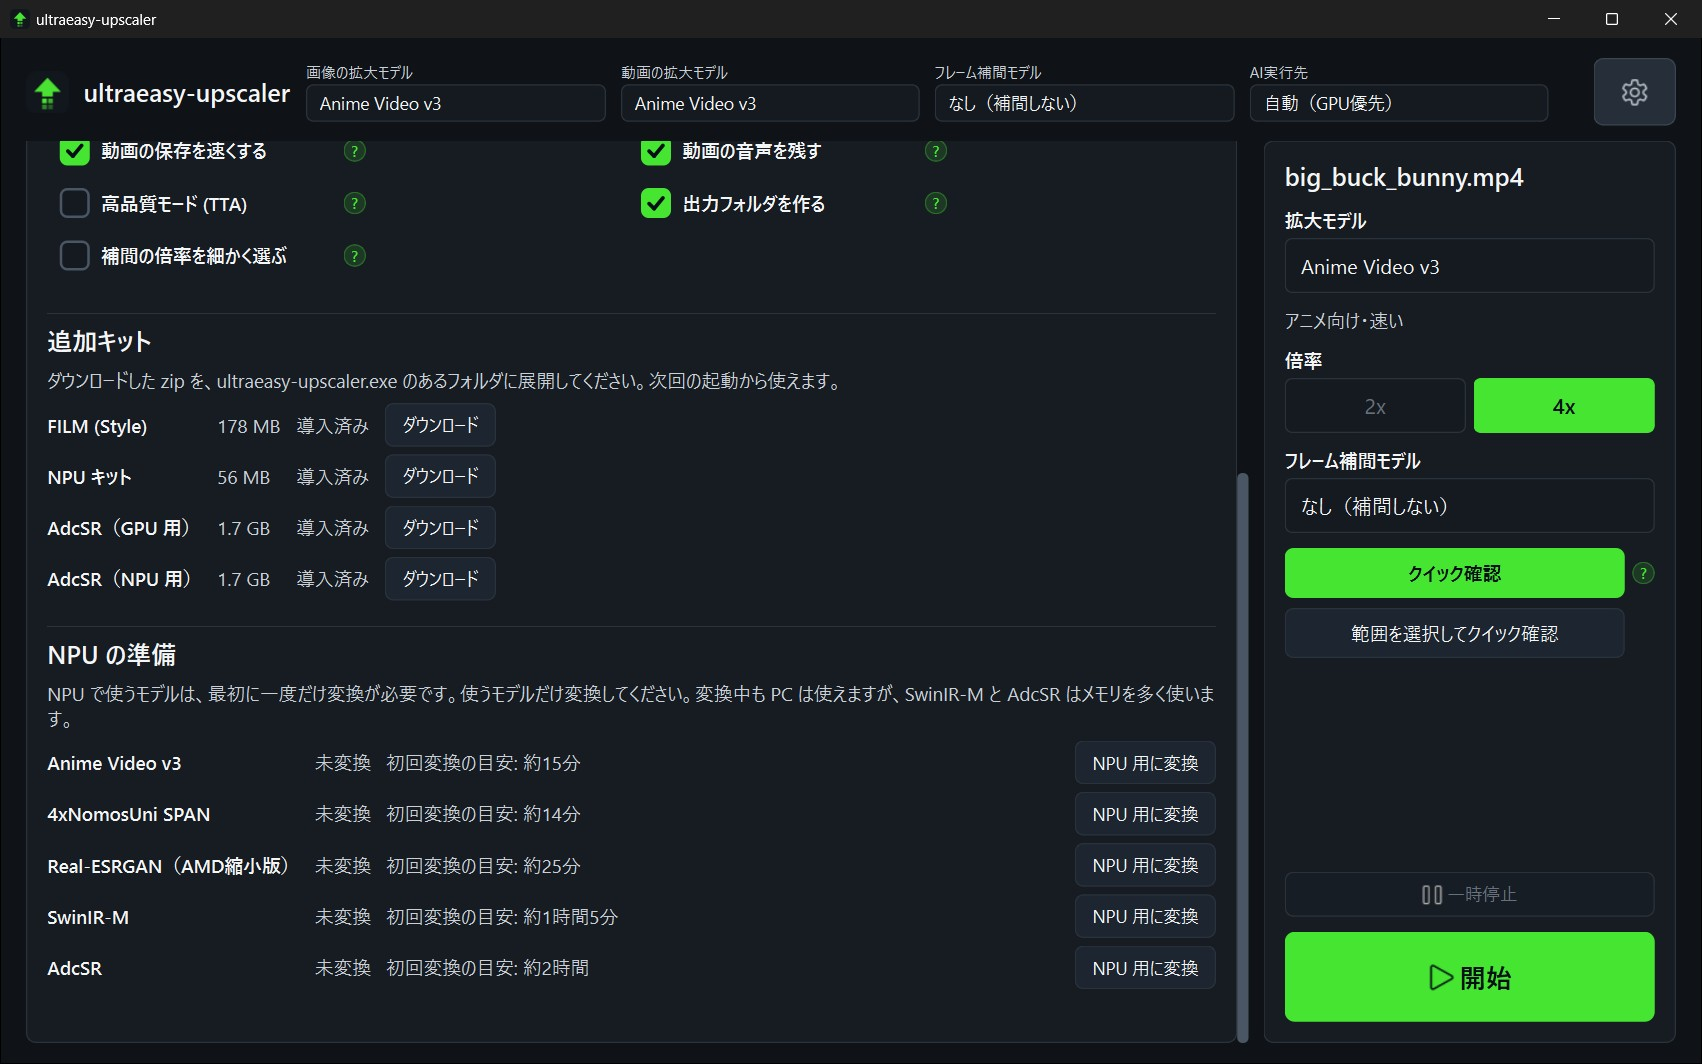
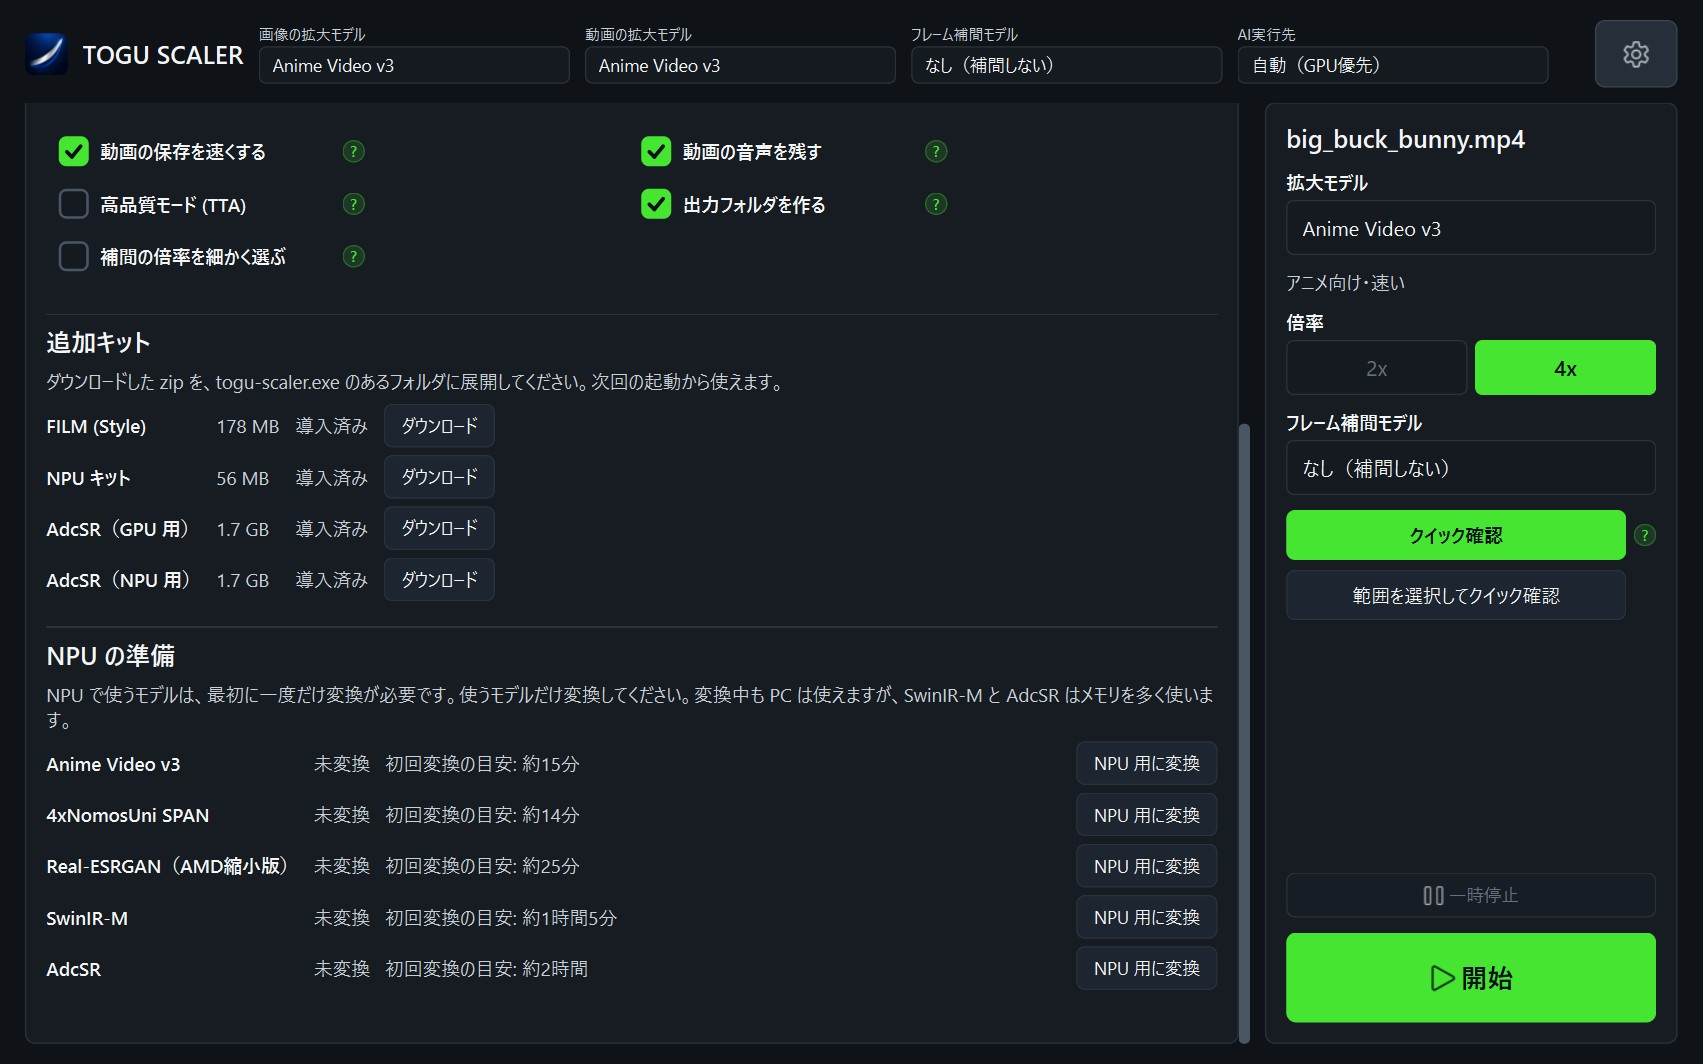
docs: v0.12.0 の説明と画面写真に更新する
- 画面写真を新しい名前とアイコンで撮り直す
- AI実行先・アクセントカラー・未導入の表示の説明を足す
- 詳細設定のアクセントカラーを表示言語の右に並べ、2 倍のボタンの説明を直す

diff --git a/README.en.md b/README.en.md
@@ -2,8 +2,9 @@
 
 [日本語](README.md) [![agent-friendly](docs/images/agent-friendly.svg)](AGENTS.md)
 
-**[⬇ Download TOGU SCALER v0.11.0](https://github.com/tomhda/togu-scaler/releases/download/v0.11.0/togu-scaler-portable-win64.zip)**
+**[⬇ Download TOGU SCALER v0.12.0](https://github.com/tomhda/togu-scaler/releases/download/v0.12.0/togu-scaler-portable-win64.zip)**
 (zip for Windows x64, 382 MB). See [Install](#install) for the steps.
+Up to v0.11.0, the app was named ultraeasy-upscaler.
 
 TOGU SCALER is a Windows app that upscales images and videos, and interpolates video frames, with a few clicks.
 Everything runs on your own PC. It collects no data, shows no ads, and is open source.
@@ -50,7 +51,7 @@ and Superman (1941), which is in the public domain.
 
 Tested on Windows 11 (x64) with a DirectX 12 GPU.
 
-1. Download [`togu-scaler-portable-win64.zip`](https://github.com/tomhda/togu-scaler/releases/download/v0.11.0/togu-scaler-portable-win64.zip).
+1. Download [`togu-scaler-portable-win64.zip`](https://github.com/tomhda/togu-scaler/releases/download/v0.12.0/togu-scaler-portable-win64.zip).
 2. Extract the zip anywhere you like. It is a portable app and needs no installation.
 3. Run `togu-scaler.exe`. The file is not code-signed, so Windows SmartScreen may show "Windows protected your PC". Select **More info**, then **Run anyway**.
 
@@ -101,6 +102,7 @@ To uninstall, delete the extracted folder.
 
 - The gear at the top right opens settings for where the AI runs, the file format, video quality, the output location, the output folder name, the display language, and more. It also shows which add-on kits are installed.
 - The interface is available in English and Japanese. It starts in the Windows display language, and you can change it under **Display language** (the change takes effect the next time the app starts).
+- **Accent color** changes the color used for highlights. It starts with the Windows accent color.
 
 ## Choosing a model
 
@@ -115,7 +117,8 @@ Times are for enlarging one 854×480 image 4× on a Radeon 860M (the integrated 
 | AdcSR | Live-action stills | 108 s | A generative model that adds texture. It is very heavy and adds a lot, so it is for still images only. Not included in the app; it needs an [add-on kit](#add-on-kits) |
 
 - If you are unsure, start with Anime Video v3 for anime and CG, and 4xNomosUni SPAN for live action.
-- Setting **Run on** to Vulkan in the settings switches to a different engine (realesrgan-ncnn-vulkan). The model list changes to five Real-ESRGAN models, and Anime Video v3 can also enlarge 2×. If processing on the GPU cannot start, the app switches to this engine automatically.
+- Setting **Run on** to Vulkan at the top of the window switches to a different engine (realesrgan-ncnn-vulkan). The model list changes to five Real-ESRGAN models, and Anime Video v3 can also enlarge 2×. If processing on the GPU cannot start, the app switches to this engine automatically.
+- Models that need an add-on kit (AdcSR and FILM (Style)) are shown as "not installed" and cannot be chosen until the kit is added.
 
 ### Quality comparison
 
@@ -148,10 +151,10 @@ Models that are not included in the app are separate downloads.
 
 | Kit | Adds | File |
 |---|---|---|
-| FILM (Style) | The frame interpolation model FILM (Style) | [`togu-scaler-film-kit.zip`](https://github.com/tomhda/togu-scaler/releases/download/v0.11.0/togu-scaler-film-kit.zip) (178 MB) |
-| AdcSR (for GPU) | The upscaling model AdcSR on the GPU | [`togu-scaler-adcsr-kit.zip`](https://github.com/tomhda/togu-scaler/releases/download/v0.11.0/togu-scaler-adcsr-kit.zip) (1.7 GB) |
-| NPU kit | Processing on the NPU (below) | [`togu-scaler-npu-kit.zip`](https://github.com/tomhda/togu-scaler/releases/download/v0.11.0/togu-scaler-npu-kit.zip) (56 MB) |
-| AdcSR (for NPU) | The upscaling model AdcSR on the NPU | [`togu-scaler-npu-kit-adcsr.zip`](https://github.com/tomhda/togu-scaler/releases/download/v0.11.0/togu-scaler-npu-kit-adcsr.zip) (1.7 GB) |
+| FILM (Style) | The frame interpolation model FILM (Style) | [`togu-scaler-film-kit.zip`](https://github.com/tomhda/togu-scaler/releases/download/v0.12.0/togu-scaler-film-kit.zip) (178 MB) |
+| AdcSR (for GPU) | The upscaling model AdcSR on the GPU | [`togu-scaler-adcsr-kit.zip`](https://github.com/tomhda/togu-scaler/releases/download/v0.12.0/togu-scaler-adcsr-kit.zip) (1.7 GB) |
+| NPU kit | Processing on the NPU (below) | [`togu-scaler-npu-kit.zip`](https://github.com/tomhda/togu-scaler/releases/download/v0.12.0/togu-scaler-npu-kit.zip) (56 MB) |
+| AdcSR (for NPU) | The upscaling model AdcSR on the NPU | [`togu-scaler-npu-kit-adcsr.zip`](https://github.com/tomhda/togu-scaler/releases/download/v0.12.0/togu-scaler-npu-kit-adcsr.zip) (1.7 GB) |
 
 1. Close TOGU SCALER and extract the contents of the zip into the folder that contains `togu-scaler.exe`, overwriting files.
 2. Start the app. The model is now in the list.
@@ -167,9 +170,9 @@ Models that are not included in the app are separate downloads.
 On AMD Ryzen AI PCs, downloading an extra kit lets the app process on the NPU. The NPU becomes selectable when both of the following are in place.
 
 - AMD's [Ryzen AI Software 1.8.0](https://ryzenai.docs.amd.com/en/latest/inst.html) (get it from AMD and install it; NPU driver 32.0.203.329 or later)
-- [`togu-scaler-npu-kit.zip`](https://github.com/tomhda/togu-scaler/releases/download/v0.11.0/togu-scaler-npu-kit.zip) (56 MB)
+- [`togu-scaler-npu-kit.zip`](https://github.com/tomhda/togu-scaler/releases/download/v0.12.0/togu-scaler-npu-kit.zip) (56 MB)
 
-To use AdcSR on the NPU, you also need the NPU-only model [`togu-scaler-npu-kit-adcsr.zip`](https://github.com/tomhda/togu-scaler/releases/download/v0.11.0/togu-scaler-npu-kit-adcsr.zip) (1.7 GB).
+To use AdcSR on the NPU, you also need the NPU-only model [`togu-scaler-npu-kit-adcsr.zip`](https://github.com/tomhda/togu-scaler/releases/download/v0.12.0/togu-scaler-npu-kit-adcsr.zip) (1.7 GB).
 
 Steps:
 
